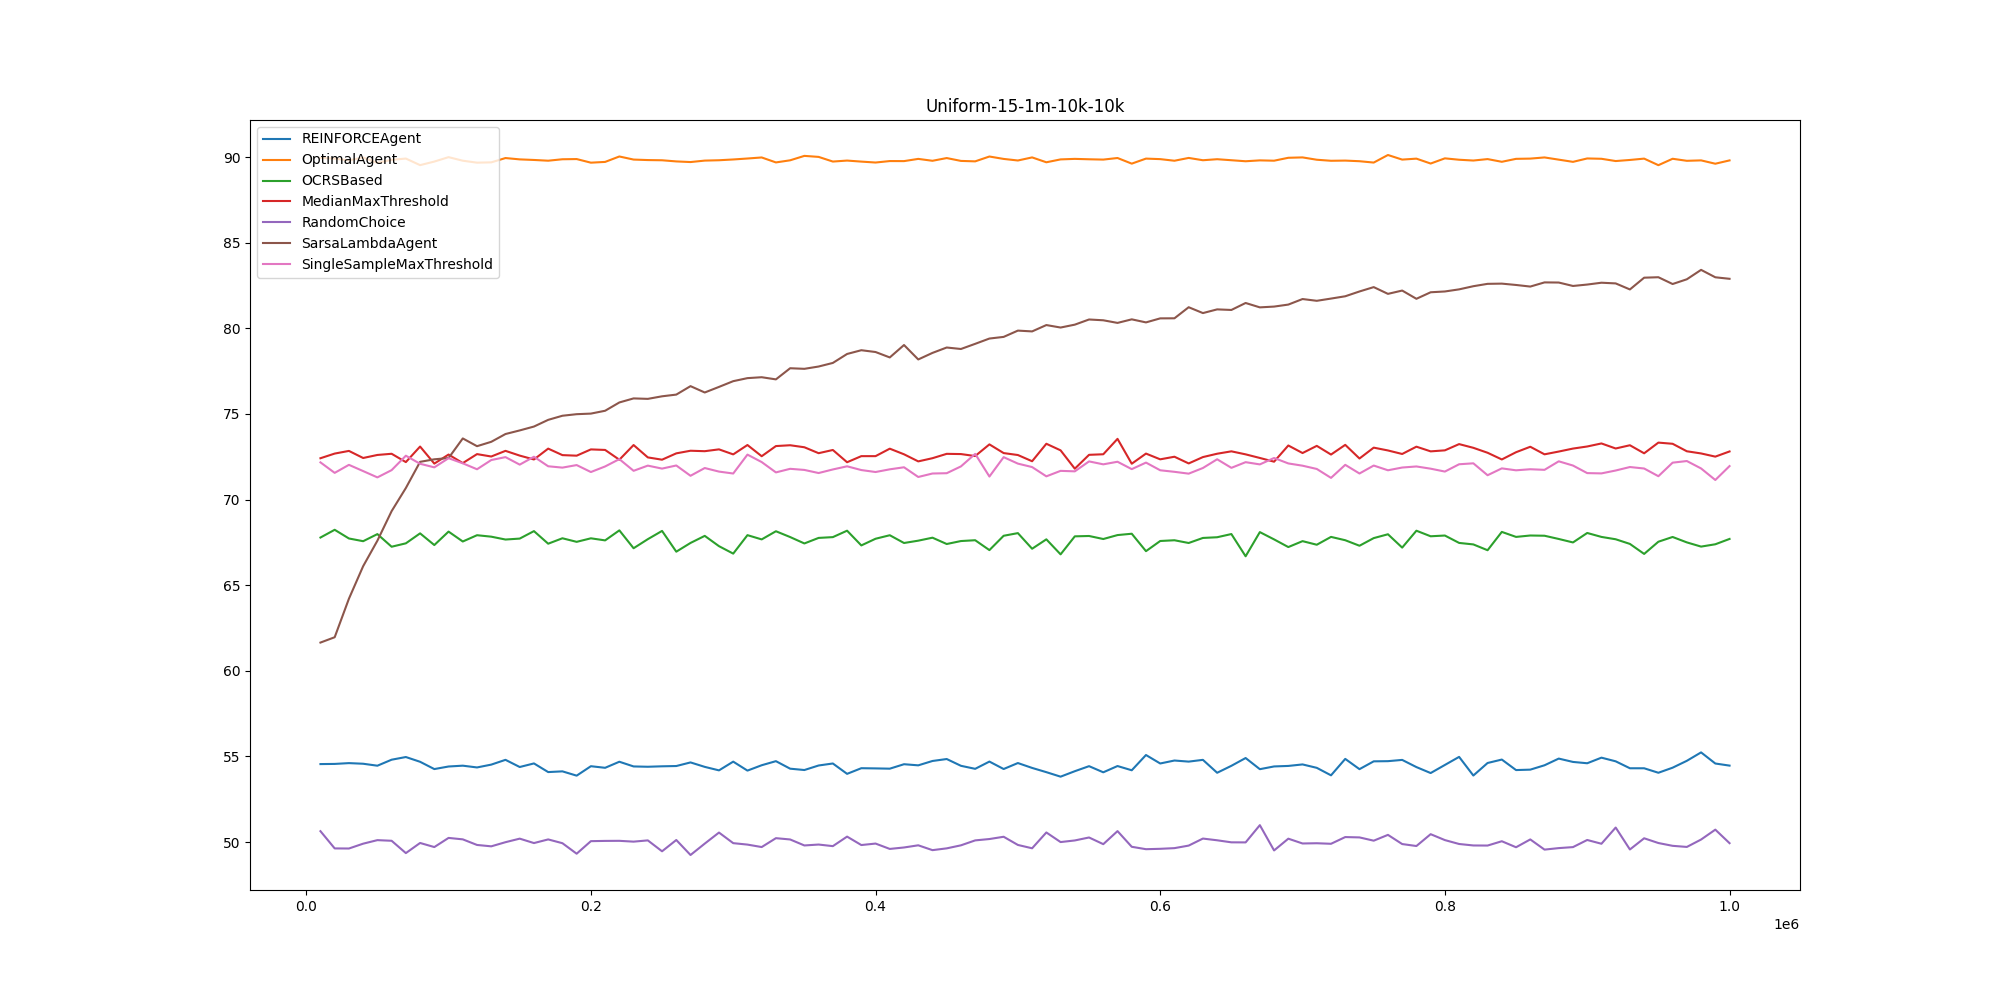
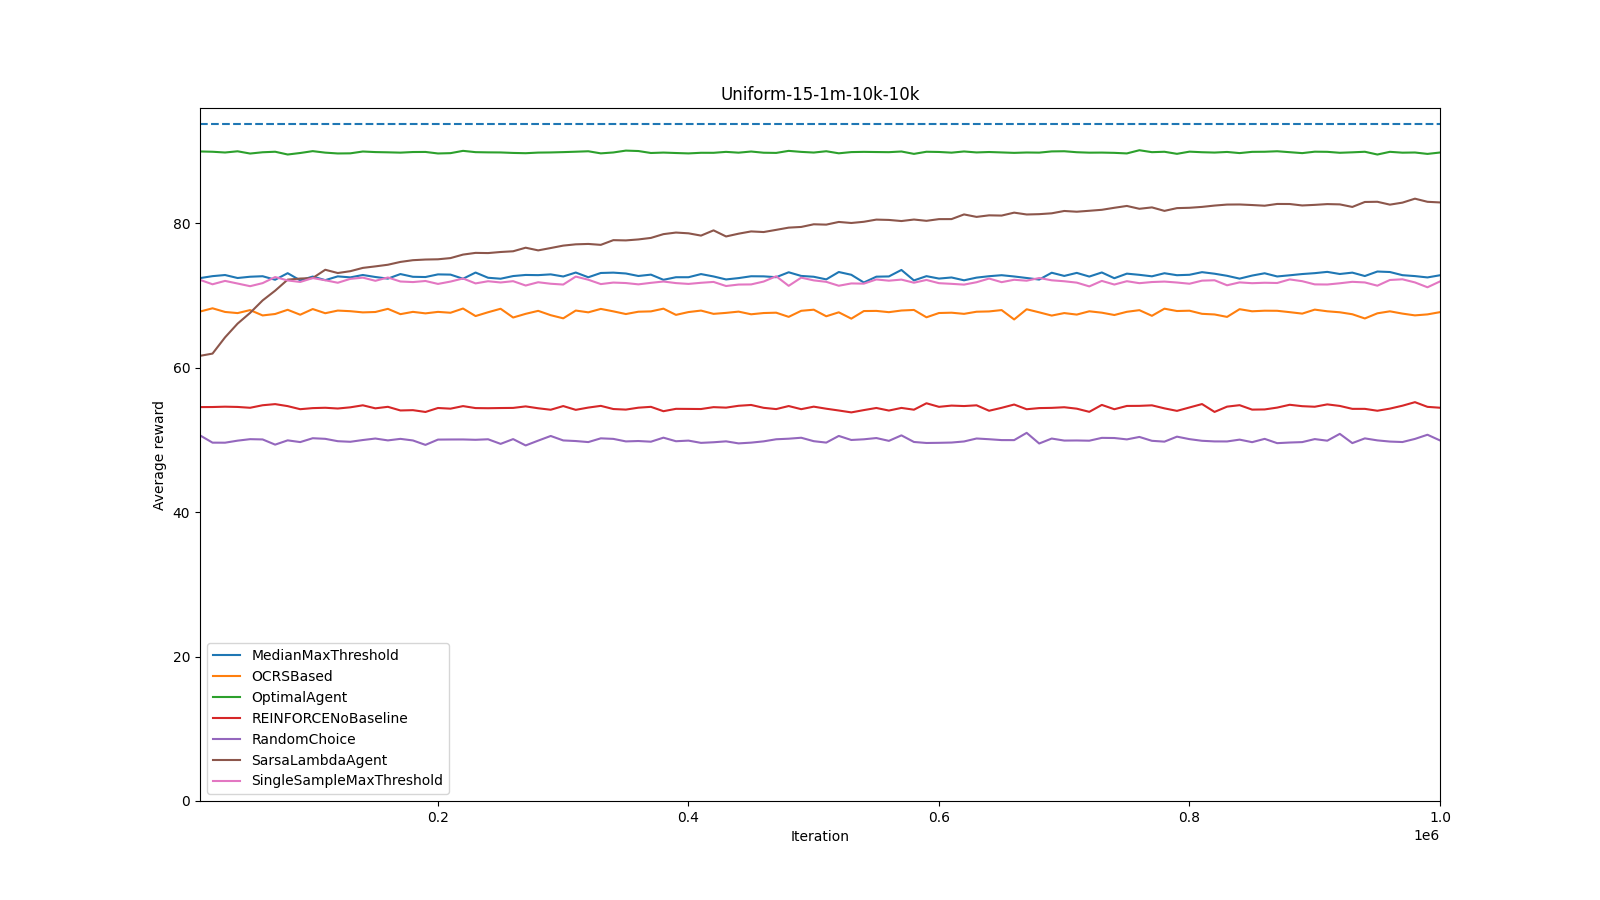
readme and all

diff --git a/test.py b/test.py
@@ -1,7 +1,8 @@
 import numpy as np
-from scipy import stats
+from scipy import stats, integrate
 import matplotlib.pyplot as plt
 from trainer import train_agent
+from evaluator import evaluate_agent
 from prophet import ProphetInequalityEnv
 import os
 
@@ -13,16 +14,26 @@ from sarsa import SarsaLambdaAgent
 from reinforce import REINFORCEAgent
 from dqn import DQN
 
-def plot_test_rewards(test_name, num_episodes, evaluate_interval):
-    plt.figure(figsize=(20, 10))
+def plot_test_rewards(test_name, distribution, num_items, num_episodes, evaluate_interval):
+    plt.figure(figsize=(16, 9))
     plt.title(test_name)
-    for file in os.listdir('reward_file'):
+
+    # Calculate expected max, which is the expected upper limit of how well any algorithm can do
+    expected_max = integrate.quad(lambda x : 1 - distribution.cdf(x) ** num_items, 0, np.inf)[0]
+    plt.axhline(expected_max, linestyle='--')
+
+    for file in sorted(os.listdir('reward_file')):
         if file.startswith(f"{test_name}_"):
+            print(f"Detected reward save file: {file}")
             agent_name = file.removeprefix(f"{test_name}_")
             with open(f"reward_file/{file}", 'rb') as f:
                 rewards = np.load(f)
                 plt.plot(range(evaluate_interval, num_episodes + 1, evaluate_interval), rewards, label=agent_name)
     plt.legend()
+    plt.xlim((evaluate_interval, num_episodes))
+    plt.ylim(ymin=0)
+    plt.xlabel('Iteration')
+    plt.ylabel('Average reward')
     plt.savefig(f"plot_file/{test_name}.png")
     plt.clf()
 
@@ -47,7 +58,7 @@ def train_and_compare_models(test_name, distribution, num_items, num_episodes, e
     agents = [
         # DQN(env, name='DQN'),
         # SarsaLambdaAgent(env=env, name='SarsaLambdaAgent', gamma=1, lam=0.2, alpha=0.05, X=tile_coding),
-        REINFORCEAgent(env=env, name='REINFORCEBaseline', gamma=1, pi=pi_baseline, V=V),
+        REINFORCEAgent(env=env, name='REINFORCENoBaseline', gamma=1, pi=pi_no_baseline, V=Baseline(0.)),
         # MedianMaxThreshold(env, name='MedianMaxThreshold'),
         # OCRSBased(env, name='OCRSBased'),
         # SingleSampleMaxThreshold(env, name='SingleSampleMaxThreshold'),
@@ -61,37 +72,56 @@ def train_and_compare_models(test_name, distribution, num_items, num_episodes, e
         reward_file_name = f"reward_file/{test_name}_{agent.name}"
         with open(reward_file_name, 'wb') as f:
             np.save(f, rewards)
-        # agent.save_model(fn=f"model_file/{test_name}_{agent.name}")
+        agent.save_model(fn=f"model_file/{test_name}_{agent.name}")
 
-    plot_test_rewards(test_name, num_episodes, evaluate_interval)
+    plot_test_rewards(test_name, distribution, num_items, num_episodes, evaluate_interval)
 
+### Training
 
-# Exponential
 # train_and_compare_models(
-#     test_name='Expon-15-1m-10k-10k',
+#     test_name='Expon-15-1k-10-100',
 #     distribution=stats.expon(loc=0, scale=100),
 #     num_items=15,
-#     num_episodes=1_000_000,
-#     evaluate_interval=10_000,
-#     samples_per_eval=10_000
+#     num_episodes=1000,
+#     evaluate_interval=10,
+#     samples_per_eval=100
 # )
 
 # Uniform
-train_and_compare_models(
-    test_name='Uniform-15-1m-10k-10k',
-    distribution=stats.uniform(loc=0, scale=100),
-    num_items=15,
-    num_episodes=1_000_000,
-    evaluate_interval=10_000,
-    samples_per_eval=10_000
-)
+# train_and_compare_models(
+#     test_name='Uniform-15-1k-10-100',
+#     distribution=stats.uniform(loc=0, scale=100),
+#     num_items=15,
+#     num_episodes=1000,
+#     evaluate_interval=10,
+#     samples_per_eval=100
+# )
 
 # Half Normal
-train_and_compare_models(
-    test_name='Halfnorm-15-1m-10k-10k',
-    distribution=stats.halfnorm(loc=0, scale=100),
-    num_items=15,
-    num_episodes=1_000_000,
-    evaluate_interval=10_000,
-    samples_per_eval=10_000
+# train_and_compare_models(
+#     test_name='Halfnorm-15-1k-10-100',
+#     distribution=stats.halfnorm(loc=0, scale=100),
+#     num_items=15,
+#     num_episodes=1000,
+#     evaluate_interval=10,
+#     samples_per_eval=100
+# )
+
+### Loading and evaluating
+distribution, num_items = stats.expon(loc=0, scale=100), 15
+env = ProphetInequalityEnv(distribution=distribution, num_items=num_items)
+
+# Tile coding for SARSA Agent
+reward_low, reward_high = distribution.interval(confidence=0.999)
+tile_coding = StateActionFeatureVectorWithTile(
+    state_low=np.array([0, reward_low]),
+    state_high=np.array([num_items + 1, reward_high]),
+    num_actions=2,
+    num_tilings=1,
+    tile_width=np.array([1, (reward_high - reward_low) / 100])
 )
+
+model = SarsaLambdaAgent(env=env, name='SarsaLambdaAgent', gamma=1, lam=0.2, alpha=0.05, X=tile_coding)
+model.load_model('model_file/Expon-15-1m-10k-10k_SarsaLambdaAgent')
+
+print(evaluate_agent(env, model, 10000))

diff --git a/evaluator.py b/evaluator.py
@@ -3,13 +3,13 @@ from prophet import ProphetInequalityEnv, ProphetInequalityAgent
 def evaluate_agent(
     env: ProphetInequalityEnv,
     agent: ProphetInequalityAgent,
-    num_episodes: int
+    samples_per_eval: int
 ) -> float:
     """
     Evaluate the average reward of the agent on num_episodes
     """
     total_reward = 0.
-    for episode in range(num_episodes):
+    for sample in range(samples_per_eval):
         state = env.reset()
         while True:
             action = agent.select_action(state)
@@ -18,4 +18,4 @@ def evaluate_agent(
             if done:
                 break
             state = next_state
-    return total_reward / num_episodes
+    return total_reward / samples_per_eval

diff --git a/reinforce.py b/reinforce.py
@@ -34,11 +34,9 @@ class REINFORCEAgent(ProphetInequalityAgent):
 
     def save_model(self, fn):
         torch.save({
-            'V': self.V.state_dict(),
             'pi': self.pi.state_dict()
         }, fn)
     
     def load_model(self, fn):
         checkpoint = torch.load(fn)
-        self.V.load_state_dict(checkpoint['V'])
         self.pi.load_state_dict(checkpoint['pi'])

diff --git a/nn.py b/nn.py
@@ -21,7 +21,7 @@ class PiApproximationWithNN(nn.Module):
             nn.Linear(32, 32).double(),
             nn.ReLU().double(),
             nn.Linear(32, num_actions).double(),
-            nn.Softmin().double()
+            nn.Softmax().double()
         )
         self.optimizer = optim.Adam(
             params=self.model.parameters(),

diff --git a/README.md b/README.md
@@ -1,1 +1,47 @@
-# RL-project
+# Prophet Inequalities over I.I.D. Items via Reinforcement Learning
+
+Take a look at our writeup [here](https://www.overleaf.com/read/ktgkygtjbqsr#8d1d9f).
+
+## Supported Models
+We support 3 types of RL models. These models are generic (i.e. they don't need to know the distribution). These are:
+- `DQN`: Deep Q-Network.
+- `SarsaLambdaAgent`: True online Sarsa(λ), implemented with tile coding value approximation. Implementation derived from one author's assignment.
+- `REINFORCEAgent`: REINFORCE, implemented with neural network value/pi approximation. Implementation derived from one author's assignment.
+
+We also implement 5 algorithms known from literature. Apart from `RandomChoice`, the remaining algorithms must know the distribution beforehand.
+
+## Training Models
+Inside `test.py`, you should see 2 functions:
+- `train_and_compare_models`: This function is used to train models. The parameters are:
+    - `test_name`: a distinguished name for test.
+    - `distribution`: an instance of `scipy.stats.rv_continuous` distribution that is common for all item rewards (e.g. all item rewards are drawn I.I.D. from this distribution).
+    - `num_items`: number of items.
+    - `num_episodes`: number of episodes to train each model.
+    - `evaluate_interval`: evaluate the performance of each model every `evaluate_interval` episodes trained.
+    - `samples_per_eval`: the number of episodes to run (to take an average over) every time we evaluate. Note that because the environment itself is probabilistic, we recommend setting this value to at least 100 to eliminate noises inherent of the environment.
+
+To train some models, go inside the function's implementation, put the desired model in the `agents` array, and then run the function outside. You should see a progress bar indicating that a model is training, along with its last evaluation.
+
+## Plotting Previous Rewards
+`train_and_compare_models` store evaluation results into the `reward_file` folder. To plot an old test, simply run `plot_test_rewards(test_name, distribution, num_items, num_episodes, evaluate_interval)`, with the parameters being exactly similar as the one put into `train_and_compare_models`. The plot will be stored into the `plot_file` folder with the format `test_name.png`.
+
+## Restoring Models
+We have some previously trained model stored in `model_file`. To restore them, you first need to initialize a model with the exact environment and parameter, then simply do `model.load_model(file_name)`. For example, to load `model_file/Expon-15-1m-10k-10k_SarsaLambdaAgent`, use the following snippet:
+
+```py
+distribution, num_items = stats.expon(loc=0, scale=100), 15
+env = ProphetInequalityEnv(distribution=distribution, num_items=num_items)
+
+# Tile coding for SARSA Agent
+reward_low, reward_high = distribution.interval(confidence=0.999)
+tile_coding = StateActionFeatureVectorWithTile(
+    state_low=np.array([0, reward_low]),
+    state_high=np.array([num_items + 1, reward_high]),
+    num_actions=2,
+    num_tilings=1,
+    tile_width=np.array([1, (reward_high - reward_low) / 100])
+)
+
+model = SarsaLambdaAgent(env=env, name='SarsaLambdaAgent', gamma=1, lam=0.2, alpha=0.05, X=tile_coding)
+model.load_model('model_file/Expon-15-1m-10k-10k_SarsaLambdaAgent')
+```
